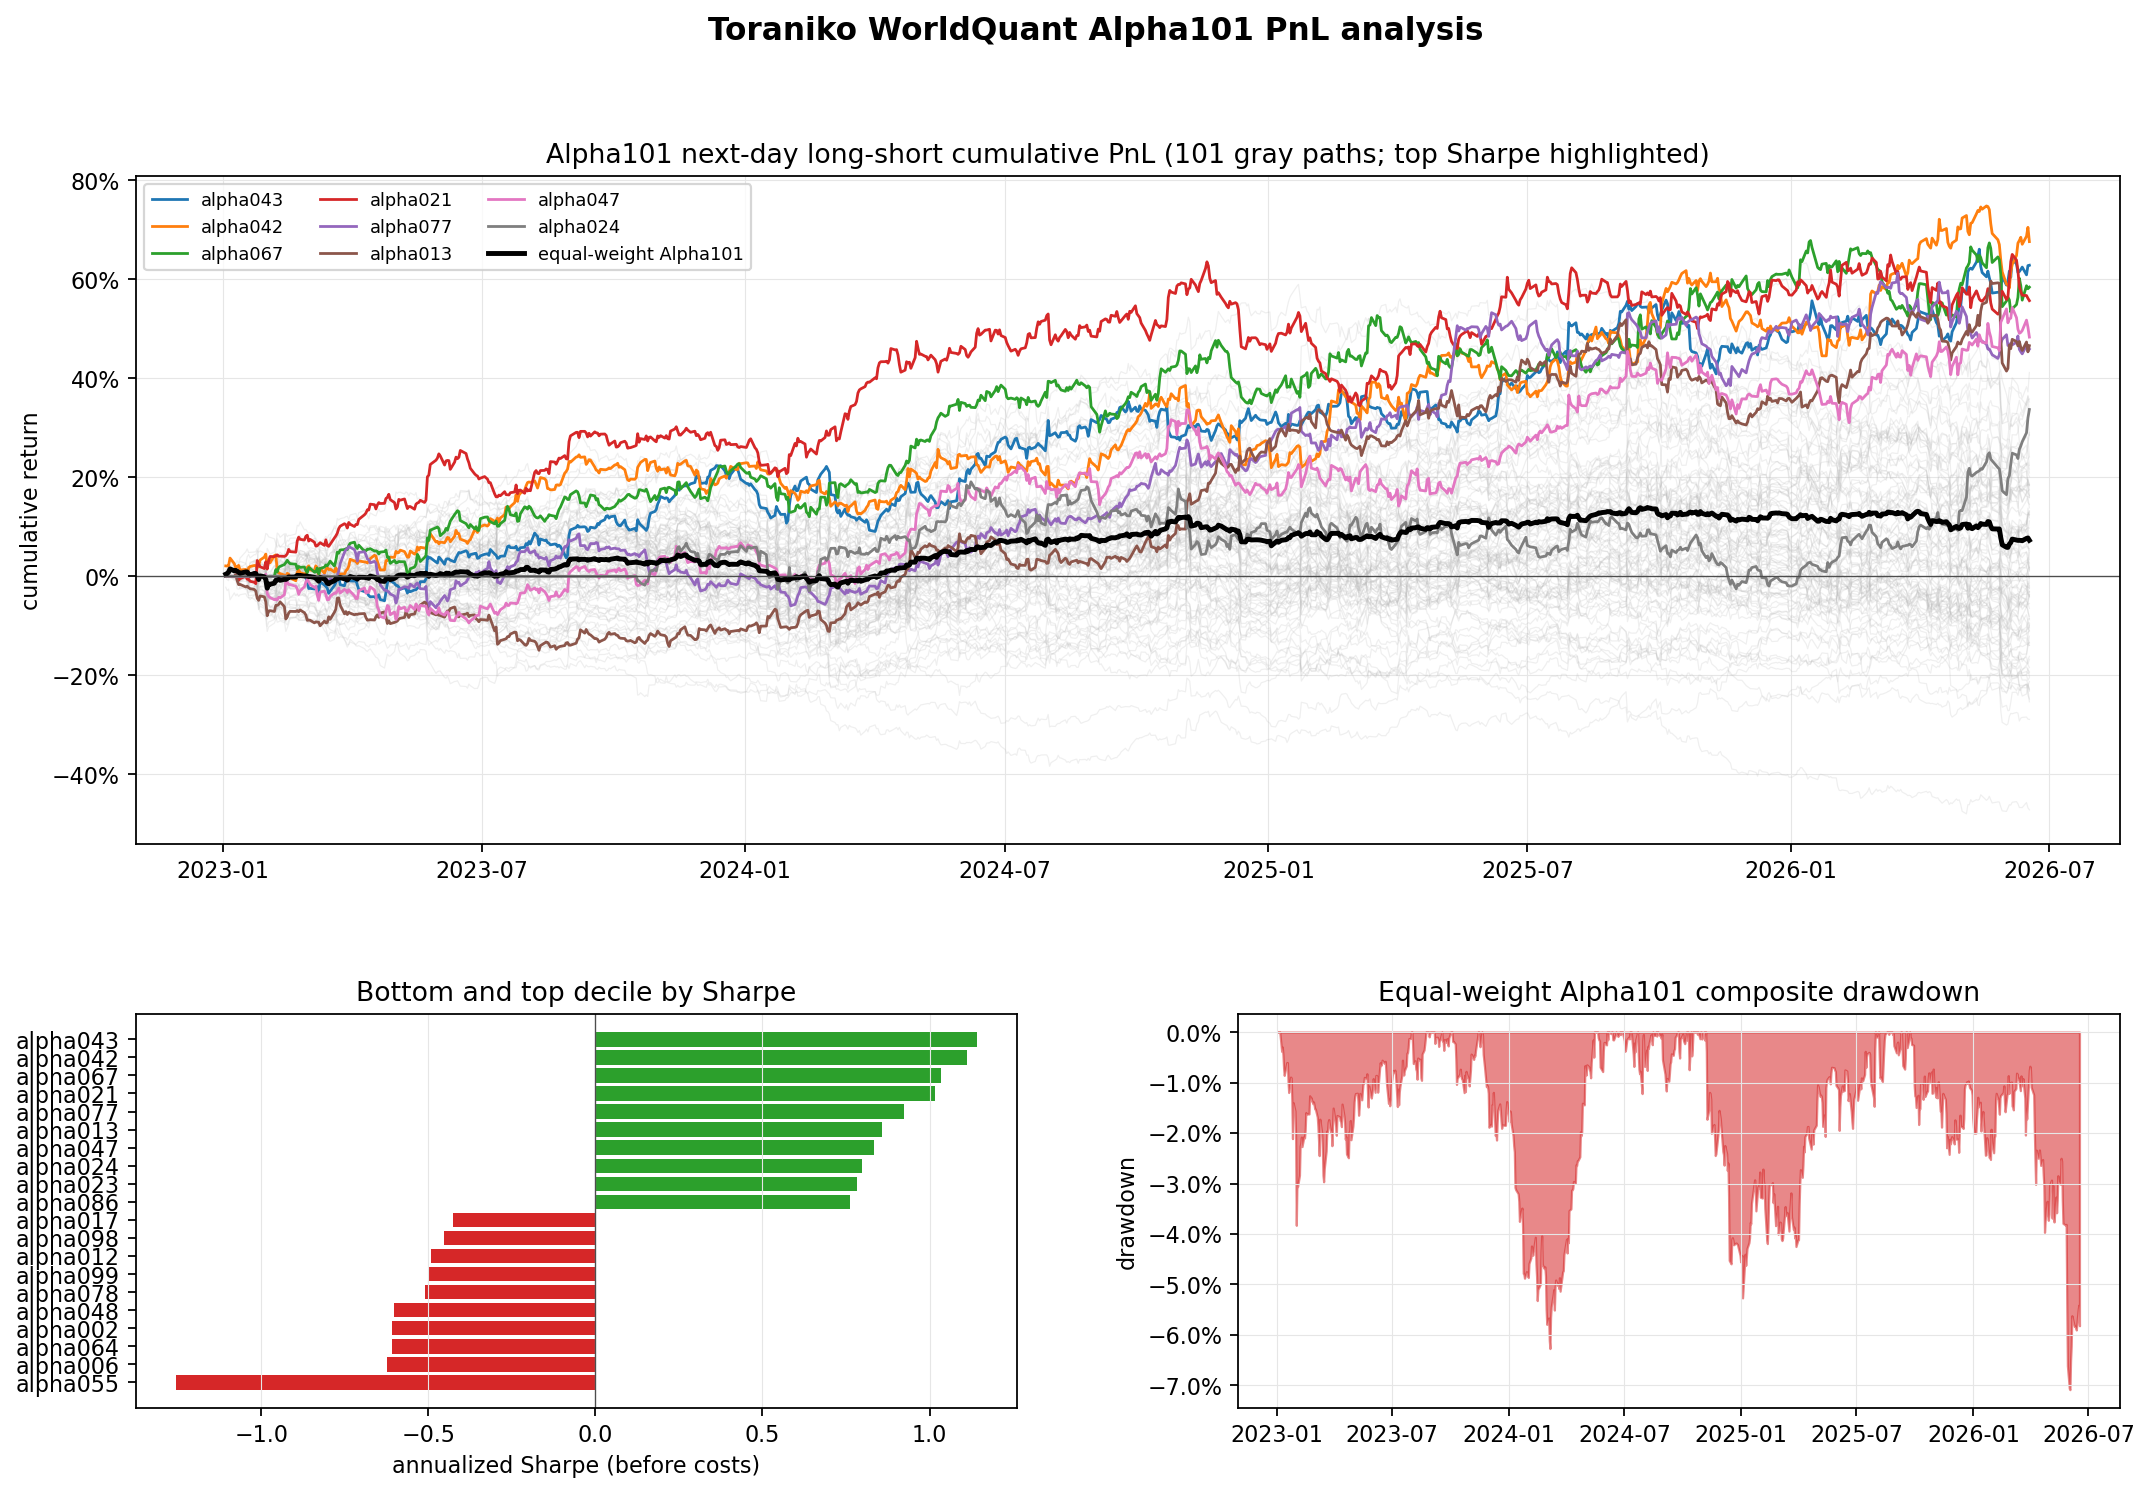
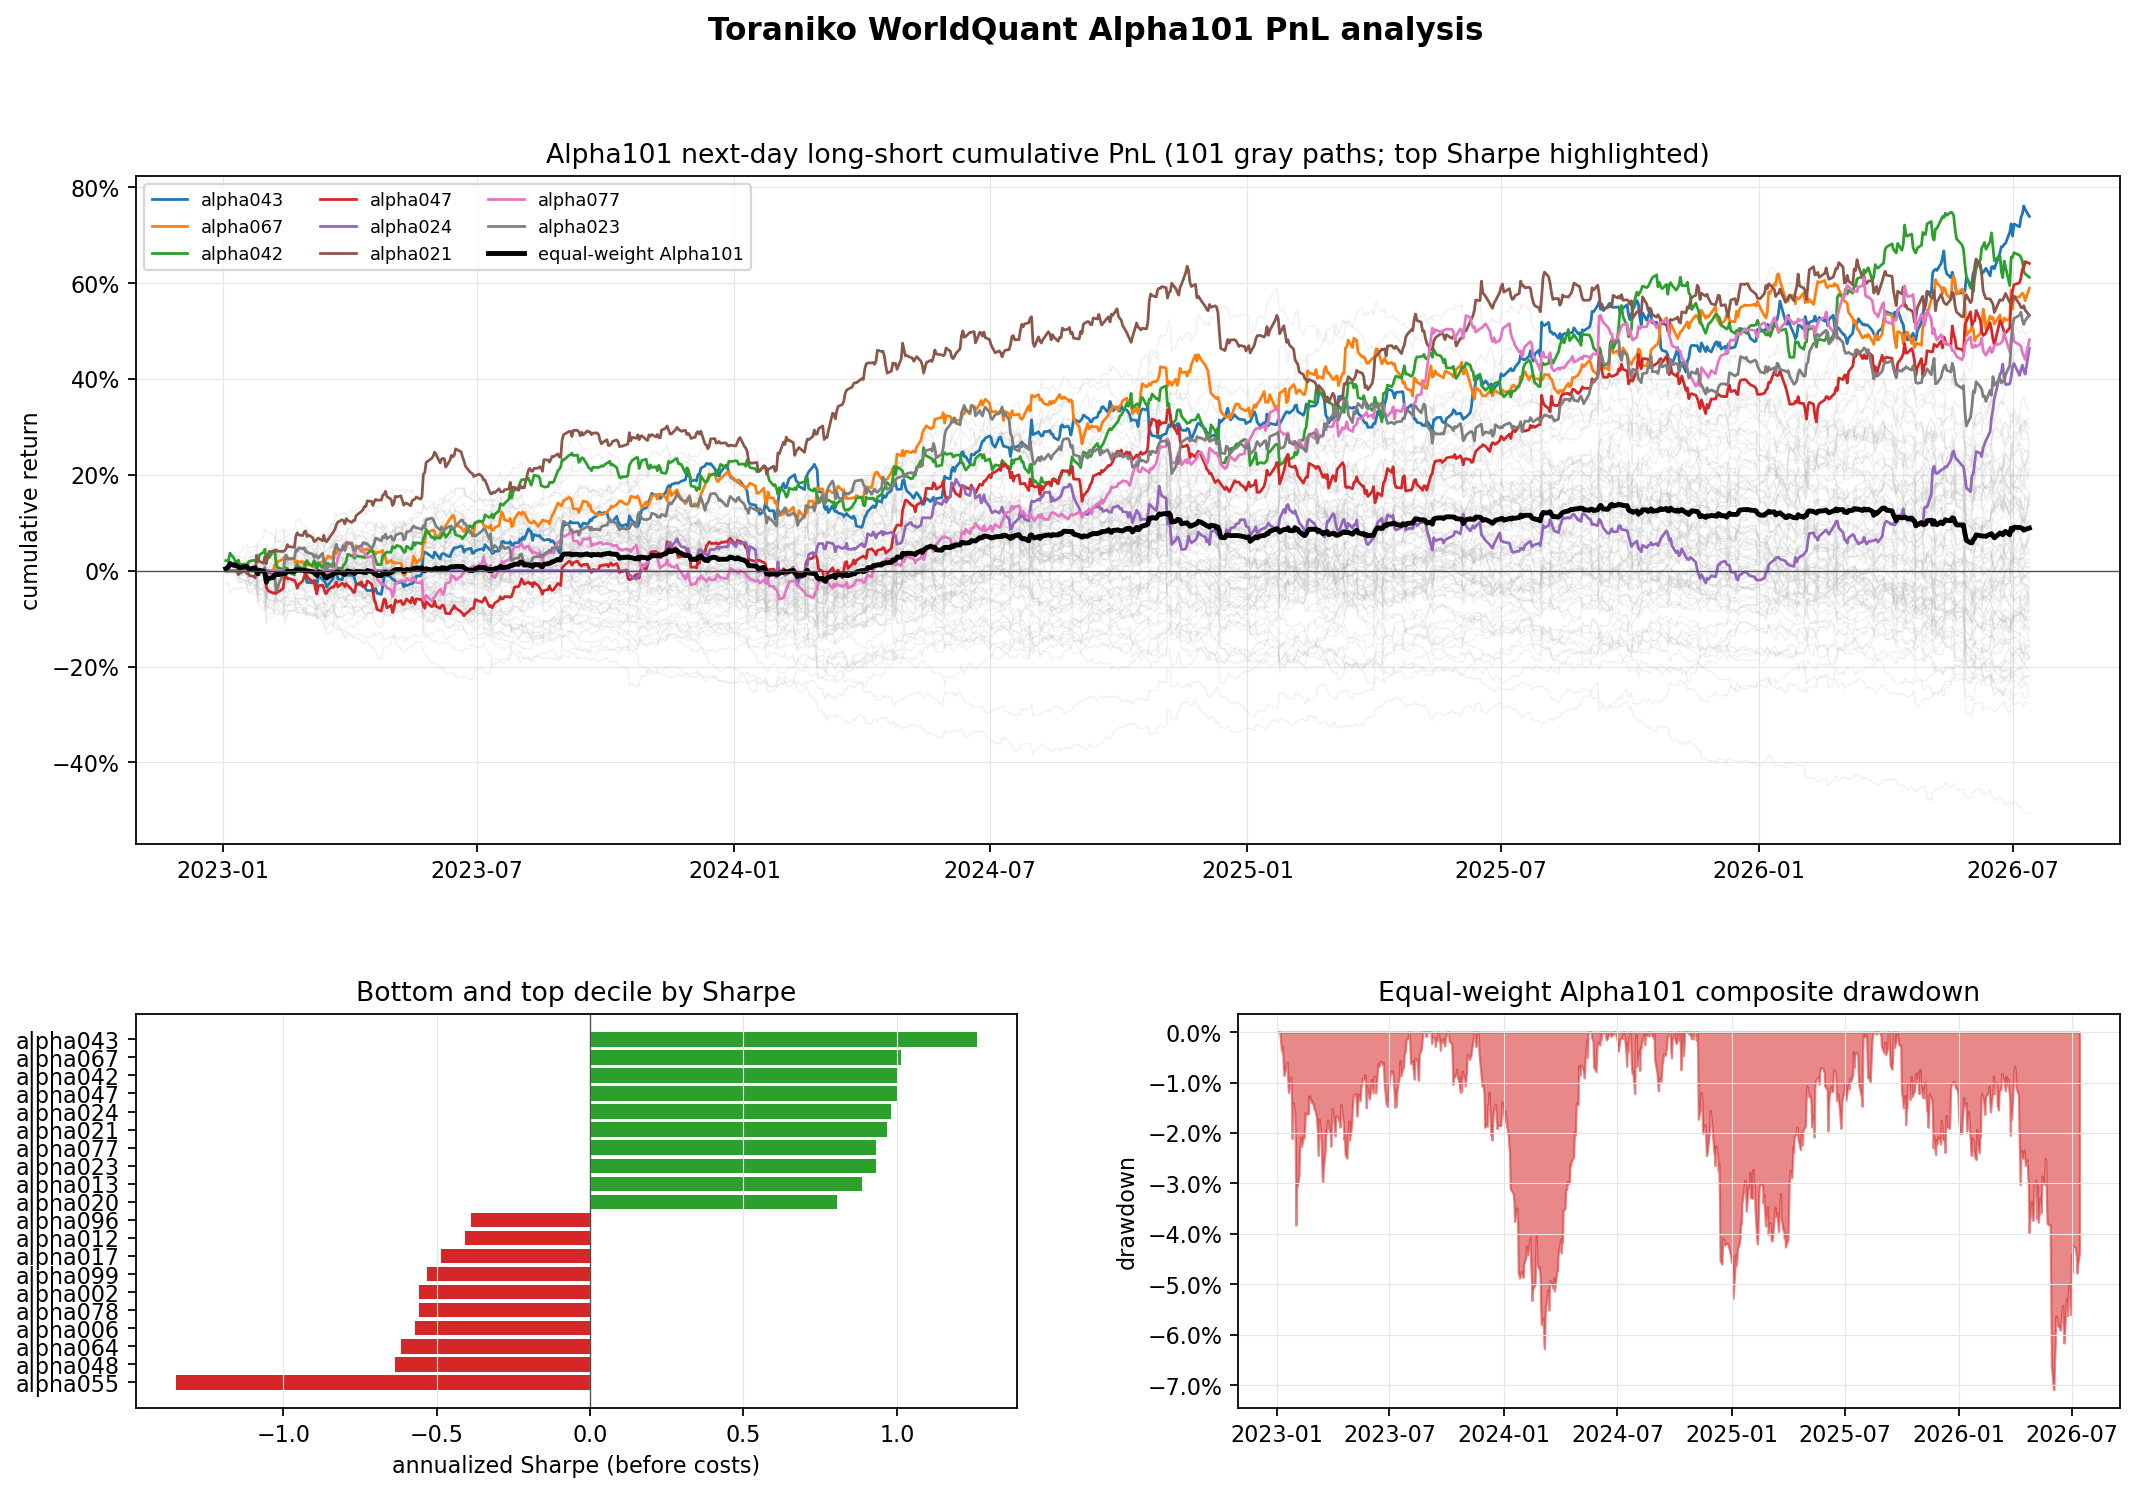
docs: refresh Alpha101 report through July 2026

diff --git a/reports/alpha101_analysis.md b/reports/alpha101_analysis.md
@@ -1,6 +1,6 @@
 # WorldQuant Alpha101 PnL and Alpha Analysis
 
-Dataset: 22 liquid equities, 2023-01-03 to 2026-06-18. Yahoo adjusted OHLCV; typical price proxies daily VWAP; point-in-time shares are used for market cap. Classification labels are a fixed research taxonomy.
+Dataset: 22 liquid equities, 2023-01-03 to 2026-07-14. Yahoo adjusted OHLCV; typical price proxies daily VWAP; point-in-time shares are used for market cap. Classification labels are a fixed research taxonomy.
 
 Method: signals at *t*, next-session returns at *t+1*, equal-weight top/bottom quintiles, 50% long and 50% short. Returns exclude costs.
 
@@ -10,58 +10,58 @@ Alphas analyzed: 101
 
 | Alpha | Ann. return | Ann. vol | Sharpe | Max DD | Rank IC | Turnover |
 |---|---:|---:|---:|---:|---:|---:|
-| alpha043 | 15.77% | 13.80% | 1.143 | -10.87% | 0.0170 | 57.80% |
-| alpha042 | 16.05% | 14.45% | 1.111 | -11.98% | 0.0118 | 47.45% |
-| alpha067 | 14.76% | 14.26% | 1.035 | -9.53% | 0.0203 | 66.28% |
-| alpha021 | 13.92% | 13.71% | 1.016 | -17.77% | 0.0129 | 42.04% |
-| alpha077 | 12.49% | 13.54% | 0.922 | -13.39% | 0.0042 | 33.73% |
-| alpha013 | 12.18% | 14.23% | 0.856 | -15.26% | 0.0111 | 38.83% |
-| alpha047 | 12.91% | 15.51% | 0.833 | -14.57% | 0.0166 | 44.55% |
-| alpha024 | 12.10% | 15.16% | 0.798 | -18.16% | 0.0216 | 31.21% |
-| alpha023 | 11.28% | 14.40% | 0.784 | -14.50% | 0.0160 | 51.34% |
-| alpha086 | 10.45% | 13.69% | 0.763 | -14.79% | 0.0051 | 45.56% |
-| alpha005 | 9.88% | 14.23% | 0.694 | -16.84% | 0.0109 | 55.08% |
-| alpha073 | 9.37% | 13.61% | 0.689 | -20.60% | 0.0144 | 50.04% |
-| alpha020 | 9.35% | 15.04% | 0.622 | -14.80% | 0.0106 | 79.06% |
-| alpha053 | 8.36% | 13.86% | 0.603 | -19.49% | 0.0125 | 80.46% |
-| alpha016 | 8.41% | 14.78% | 0.569 | -10.52% | 0.0070 | 38.93% |
-| alpha089 | 7.30% | 12.87% | 0.567 | -21.01% | 0.0132 | 39.73% |
-| alpha083 | 8.62% | 15.22% | 0.567 | -13.88% | 0.0125 | 75.91% |
-| alpha003 | 7.38% | 14.14% | 0.522 | -15.94% | 0.0081 | 27.14% |
-| alpha068 | 6.78% | 13.01% | 0.521 | -23.84% | 0.0041 | 48.82% |
-| alpha082 | 7.18% | 14.69% | 0.489 | -10.93% | 0.0088 | 28.64% |
+| alpha043 | 17.46% | 13.83% | 1.262 | -10.87% | 0.0186 | 57.88% |
+| alpha067 | 14.64% | 14.43% | 1.014 | -9.53% | 0.0211 | 66.28% |
+| alpha042 | 14.71% | 14.68% | 1.002 | -11.98% | 0.0101 | 47.41% |
+| alpha047 | 15.67% | 15.66% | 1.000 | -14.57% | 0.0193 | 44.81% |
+| alpha024 | 15.26% | 15.54% | 0.982 | -18.16% | 0.0240 | 31.21% |
+| alpha021 | 13.23% | 13.68% | 0.967 | -17.77% | 0.0134 | 41.88% |
+| alpha077 | 12.76% | 13.67% | 0.934 | -13.39% | 0.0045 | 33.71% |
+| alpha023 | 13.53% | 14.53% | 0.931 | -14.50% | 0.0182 | 51.49% |
+| alpha013 | 12.64% | 14.24% | 0.888 | -15.26% | 0.0109 | 38.92% |
+| alpha020 | 12.33% | 15.31% | 0.806 | -14.80% | 0.0132 | 79.12% |
+| alpha005 | 10.88% | 14.40% | 0.756 | -16.84% | 0.0119 | 55.11% |
+| alpha073 | 9.37% | 13.77% | 0.680 | -22.78% | 0.0141 | 50.04% |
+| alpha070 | 9.47% | 14.31% | 0.662 | -18.76% | 0.0126 | 63.01% |
+| alpha093 | 9.32% | 14.26% | 0.654 | -15.50% | 0.0066 | 20.61% |
+| alpha053 | 8.95% | 14.03% | 0.638 | -19.49% | 0.0130 | 80.48% |
+| alpha086 | 8.31% | 13.82% | 0.601 | -14.79% | 0.0036 | 45.54% |
+| alpha016 | 8.53% | 14.75% | 0.578 | -10.54% | 0.0070 | 38.99% |
+| alpha068 | 7.38% | 13.20% | 0.559 | -24.83% | 0.0061 | 48.72% |
+| alpha022 | 7.41% | 13.85% | 0.535 | -16.37% | 0.0076 | 46.17% |
+| alpha052 | 9.01% | 16.88% | 0.534 | -15.48% | 0.0213 | 34.27% |
 
 ## Lowest Sharpe alphas
 
 | Alpha | Ann. return | Ann. vol | Sharpe | Max DD | Rank IC | Turnover |
 |---|---:|---:|---:|---:|---:|---:|
-| alpha055 | -17.87% | 14.22% | -1.256 | -48.46% | -0.0064 | 40.32% |
-| alpha006 | -8.97% | 14.39% | -0.623 | -38.56% | 0.0068 | 31.85% |
-| alpha064 | -8.12% | 13.32% | -0.609 | -30.77% | -0.0034 | 25.69% |
-| alpha002 | -7.75% | 12.73% | -0.609 | -28.24% | -0.0061 | 37.66% |
-| alpha048 | -6.85% | 11.37% | -0.603 | -25.09% | -0.0041 | 67.88% |
-| alpha078 | -7.25% | 14.22% | -0.509 | -24.83% | -0.0149 | 33.06% |
-| alpha099 | -6.18% | 12.37% | -0.500 | -34.72% | -0.0041 | 25.64% |
-| alpha012 | -7.21% | 14.65% | -0.492 | -28.75% | 0.0006 | 71.42% |
-| alpha098 | -6.15% | 13.59% | -0.453 | -34.17% | -0.0100 | 28.87% |
-| alpha017 | -6.58% | 15.41% | -0.427 | -43.18% | -0.0072 | 80.64% |
-| alpha088 | -5.70% | 15.56% | -0.366 | -26.21% | 0.0090 | 27.01% |
-| alpha058 | -5.01% | 14.01% | -0.358 | -22.61% | 0.0029 | 49.08% |
-| alpha038 | -5.43% | 15.44% | -0.352 | -35.85% | 0.0085 | 68.17% |
-| alpha033 | -5.53% | 16.80% | -0.329 | -28.34% | 0.0071 | 78.34% |
-| alpha056 | -4.31% | 13.17% | -0.328 | -31.28% | 0.0002 | 74.72% |
-| alpha081 | -3.84% | 12.42% | -0.310 | -26.41% | -0.0030 | 25.51% |
-| alpha096 | -3.96% | 13.96% | -0.284 | -22.53% | 0.0092 | 35.04% |
-| alpha072 | -2.82% | 12.41% | -0.228 | -19.73% | -0.0000 | 29.57% |
-| alpha063 | -3.01% | 13.73% | -0.219 | -23.92% | -0.0053 | 24.28% |
-| alpha015 | -3.07% | 14.88% | -0.207 | -39.44% | 0.0033 | 31.50% |
+| alpha055 | -19.38% | 14.35% | -1.350 | -51.19% | -0.0067 | 40.41% |
+| alpha048 | -7.51% | 11.79% | -0.637 | -25.90% | -0.0028 | 67.76% |
+| alpha064 | -8.23% | 13.33% | -0.617 | -30.97% | -0.0017 | 25.54% |
+| alpha006 | -8.27% | 14.50% | -0.570 | -38.56% | 0.0065 | 31.75% |
+| alpha078 | -7.92% | 14.23% | -0.557 | -26.86% | -0.0145 | 33.13% |
+| alpha002 | -7.10% | 12.77% | -0.556 | -28.24% | -0.0052 | 37.59% |
+| alpha099 | -6.65% | 12.49% | -0.532 | -34.72% | -0.0045 | 25.53% |
+| alpha017 | -7.53% | 15.54% | -0.484 | -46.15% | -0.0078 | 80.61% |
+| alpha012 | -6.03% | 14.83% | -0.407 | -29.99% | 0.0017 | 71.41% |
+| alpha096 | -5.45% | 14.01% | -0.389 | -26.42% | 0.0072 | 34.93% |
+| alpha098 | -5.22% | 13.62% | -0.383 | -35.24% | -0.0086 | 28.84% |
+| alpha081 | -4.63% | 12.62% | -0.367 | -28.13% | -0.0039 | 25.50% |
+| alpha088 | -5.17% | 15.54% | -0.333 | -26.21% | 0.0095 | 26.94% |
+| alpha033 | -5.55% | 17.02% | -0.326 | -28.34% | 0.0075 | 78.41% |
+| alpha072 | -4.05% | 12.58% | -0.322 | -19.93% | -0.0013 | 29.66% |
+| alpha097 | -4.32% | 13.62% | -0.317 | -28.77% | 0.0052 | 30.19% |
+| alpha063 | -4.28% | 13.88% | -0.308 | -23.92% | -0.0061 | 24.32% |
+| alpha058 | -4.05% | 14.12% | -0.287 | -23.27% | 0.0036 | 49.07% |
+| alpha038 | -4.05% | 15.55% | -0.260 | -36.77% | 0.0098 | 68.19% |
+| alpha060 | -3.80% | 14.68% | -0.259 | -22.80% | -0.0007 | 73.37% |
 
 ## Cross-alpha diagnostics
 
-- Median annual return: 1.51%
-- Median Sharpe: 0.108
-- Median rank IC: 0.0057
-- Median one-sided turnover: 43.35%
+- Median annual return: 2.75%
+- Median Sharpe: 0.188
+- Median rank IC: 0.0065
+- Median one-sided turnover: 43.43%
 
 ## Charts
 